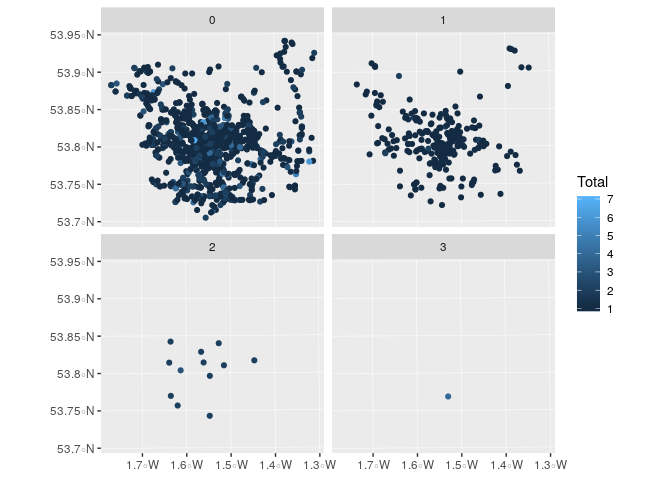
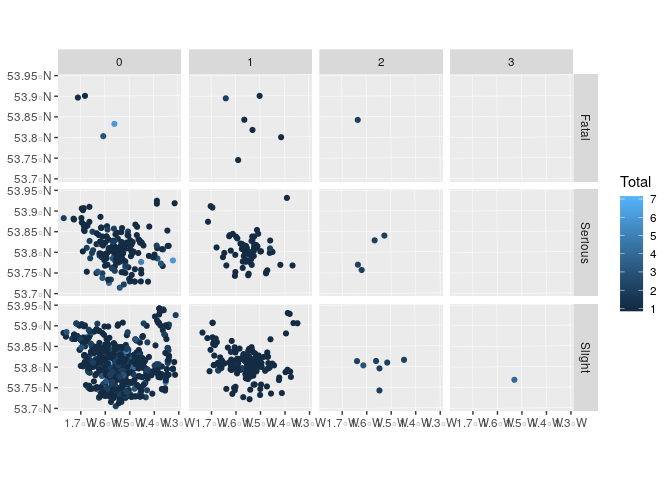
Add time-series analysis plots

diff --git a/README.md b/README.md
@@ -98,7 +98,7 @@ dl_stats19(year = 2017, type = "Accidents")
 #> Files identified: dftRoadSafetyData_Accidents_2017.zip
 #> Attempt downloading from:
 #>    http://data.dft.gov.uk.s3.amazonaws.com/road-accidents-safety-data/dftRoadSafetyData_Accidents_2017.zip
-#> Data saved at /tmp/Rtmp1K5WYn/dftRoadSafetyData_Accidents_2017/Acc.csv
+#> Data saved at /tmp/RtmpsAf5xr/dftRoadSafetyData_Accidents_2017/Acc.csv
 ```
 
 Currently, these files are downloaded to a default location of “tempdir”
@@ -146,7 +146,7 @@ section), they can then be read-in as follows:
 ``` r
 crashes_2017_raw = read_accidents(year = 2017)
 #> Reading in:
-#> /tmp/Rtmp1K5WYn/dftRoadSafetyData_Accidents_2017/Acc.csv
+#> /tmp/RtmpsAf5xr/dftRoadSafetyData_Accidents_2017/Acc.csv
 nrow(crashes_2017_raw)
 #> [1] 129982
 ncol(crashes_2017_raw)
@@ -258,7 +258,7 @@ dl_stats19(year = 2017, type = "casualties")
 #> Files identified: dftRoadSafetyData_Casualties_2017.zip
 #> Attempt downloading from:
 #>    http://data.dft.gov.uk.s3.amazonaws.com/road-accidents-safety-data/dftRoadSafetyData_Casualties_2017.zip
-#> Data saved at /tmp/Rtmp1K5WYn/dftRoadSafetyData_Casualties_2017/Cas.csv
+#> Data saved at /tmp/RtmpsAf5xr/dftRoadSafetyData_Casualties_2017/Cas.csv
 casualties_2017_raw = read_casualties(year = 2017)
 nrow(casualties_2017_raw)
 #> [1] 170993
@@ -322,7 +322,7 @@ dl_stats19(year = 2017, type = "vehicles")
 #> Files identified: dftRoadSafetyData_Vehicles_2017.zip
 #> Attempt downloading from:
 #>    http://data.dft.gov.uk.s3.amazonaws.com/road-accidents-safety-data/dftRoadSafetyData_Vehicles_2017.zip
-#> Data saved at /tmp/Rtmp1K5WYn/dftRoadSafetyData_Vehicles_2017/Veh.csv
+#> Data saved at /tmp/RtmpsAf5xr/dftRoadSafetyData_Vehicles_2017/Veh.csv
 vehicles_2017_raw = read_vehicles(year = 2017)
 nrow(vehicles_2017_raw)
 #> [1] 238926
@@ -429,7 +429,7 @@ cas_types = casualties_leeds %>%
   summarise(n = sum(n)) %>% 
   spread(casualty_type, n, fill = 0) 
 cas_types$Total = rowSums(cas_types[-1])
-crashes_joined = left_join(crashes_leeds[1], cas_types)
+crashes_joined = left_join(crashes_leeds, cas_types)
 #> Joining, by = "accident_index"
 ```
 
@@ -458,19 +458,60 @@ speed limits tend to be higher and where there are comparatively high
 volumes of motor traffic, compared with the city centre.
 
 Another way of visualising the data, in this case to show the spatial
-distribution of crashes causing pedestrian casualties by numbers of
-pedestrians hurt, is with **ggplot2**:
+distribution of crashes causing pedestrian casualties by number of
+pedestrians hurt and crash severity, is with **ggplot2**:
 
 ``` r
 ggplot(crashes_joined, aes(colour = Total)) +
   geom_sf() +
-  facet_wrap(vars(Pedestrian))
+  facet_grid(vars(accident_severity), vars(Pedestrian))
 ```
 
 <img src="man/figures/README-ggplot-1.png" width="100%" />
 
 Note: Both figures show that pedestrian casualties tend to happen more
 frequently near the city centre, compared with other types of casualty.
+
+## Time series analysis
+
+We can explore weekly and seasonal trends in crashes by aggregating
+crashes by day of the year:
+
+``` r
+crashes_dates = crashes_joined %>% 
+  st_set_geometry(NULL) %>% 
+  group_by(date = lubridate::dmy(date)) %>% 
+  summarise(Pedestrian = sum(Pedestrian), Cyclist = sum(Cyclist),
+            `Car occupant` = sum(`Car occupant`)) %>% 
+  gather(mode, casualties, -date)
+ggplot(crashes_dates, aes(date, casualties)) +
+  geom_smooth(aes(colour = mode)) +
+  ylab("Casualties per day")
+#> `geom_smooth()` using method = 'loess' and formula 'y ~ x'
+```
+
+<img src="man/figures/README-dates-1.png" width="100%" />
+
+Different types of crashes also tend to happen at different times of
+day. This is illustrated in the plot below, which shows the times of day
+when people who were travelling by different modes were most commonly
+injured.
+
+``` r
+crash_times = crashes_joined %>% 
+  st_set_geometry(NULL) %>% 
+  group_by(hour = as.numeric(str_sub(time, 1, 2))) %>% 
+  summarise(Pedestrian = sum(Pedestrian), Cyclist = sum(Cyclist),
+            `Car occupant` = sum(`Car occupant`)) %>% 
+  gather(mode, casualties, -hour)
+ggplot(crash_times, aes(hour, casualties)) +
+  geom_line(aes(colour = mode))
+```
+
+<img src="man/figures/README-times-1.png" width="100%" />
+
+Note the morning peak in cycling (see Lovelace, Roberts, and Kellar 2016
+form more on this).
 
 ## Next steps
 
@@ -483,8 +524,8 @@ why people are needlessly hurt and killed on the roads.
 The next step is to gain a deeper understanding of **stats19** and the
 data it provides. Then it’s time to pose interesting research questions,
 some of which could provide an evidence-base in support policies that
-save lives. For more on these next steps, see the package’s introductory
-vignette.
+save lives (e.g. Sarkar, Webster, and Kumari 2018). For more on these
+next steps, see the package’s introductory vignette.
 
 ## Further information
 
@@ -497,3 +538,28 @@ The **stats19** package builds on previous work, including:
     for downloading Stats19 data
   - updated functions related to the
     [CyIPT](https://github.com/cyipt/stats19) project
+
+## References
+
+<div id="refs" class="references">
+
+<div id="ref-lovelace_who_2016">
+
+Lovelace, Robin, Hannah Roberts, and Ian Kellar. 2016. “Who, Where,
+When: The Demographic and Geographic Distribution of Bicycle Crashes in
+West Yorkshire.” *Transportation Research Part F: Traffic Psychology and
+Behaviour*, Bicycling and bicycle safety, 41, Part B.
+<https://doi.org/10.1016/j.trf.2015.02.010>.
+
+</div>
+
+<div id="ref-sarkar_street_2018">
+
+Sarkar, Chinmoy, Chris Webster, and Sarika Kumari. 2018. “Street
+Morphology and Severity of Road Casualties: A 5-Year Study of Greater
+London.” *International Journal of Sustainable Transportation* 12 (7):
+510–25. <https://doi.org/10.1080/15568318.2017.1402972>.
+
+</div>
+
+</div>
